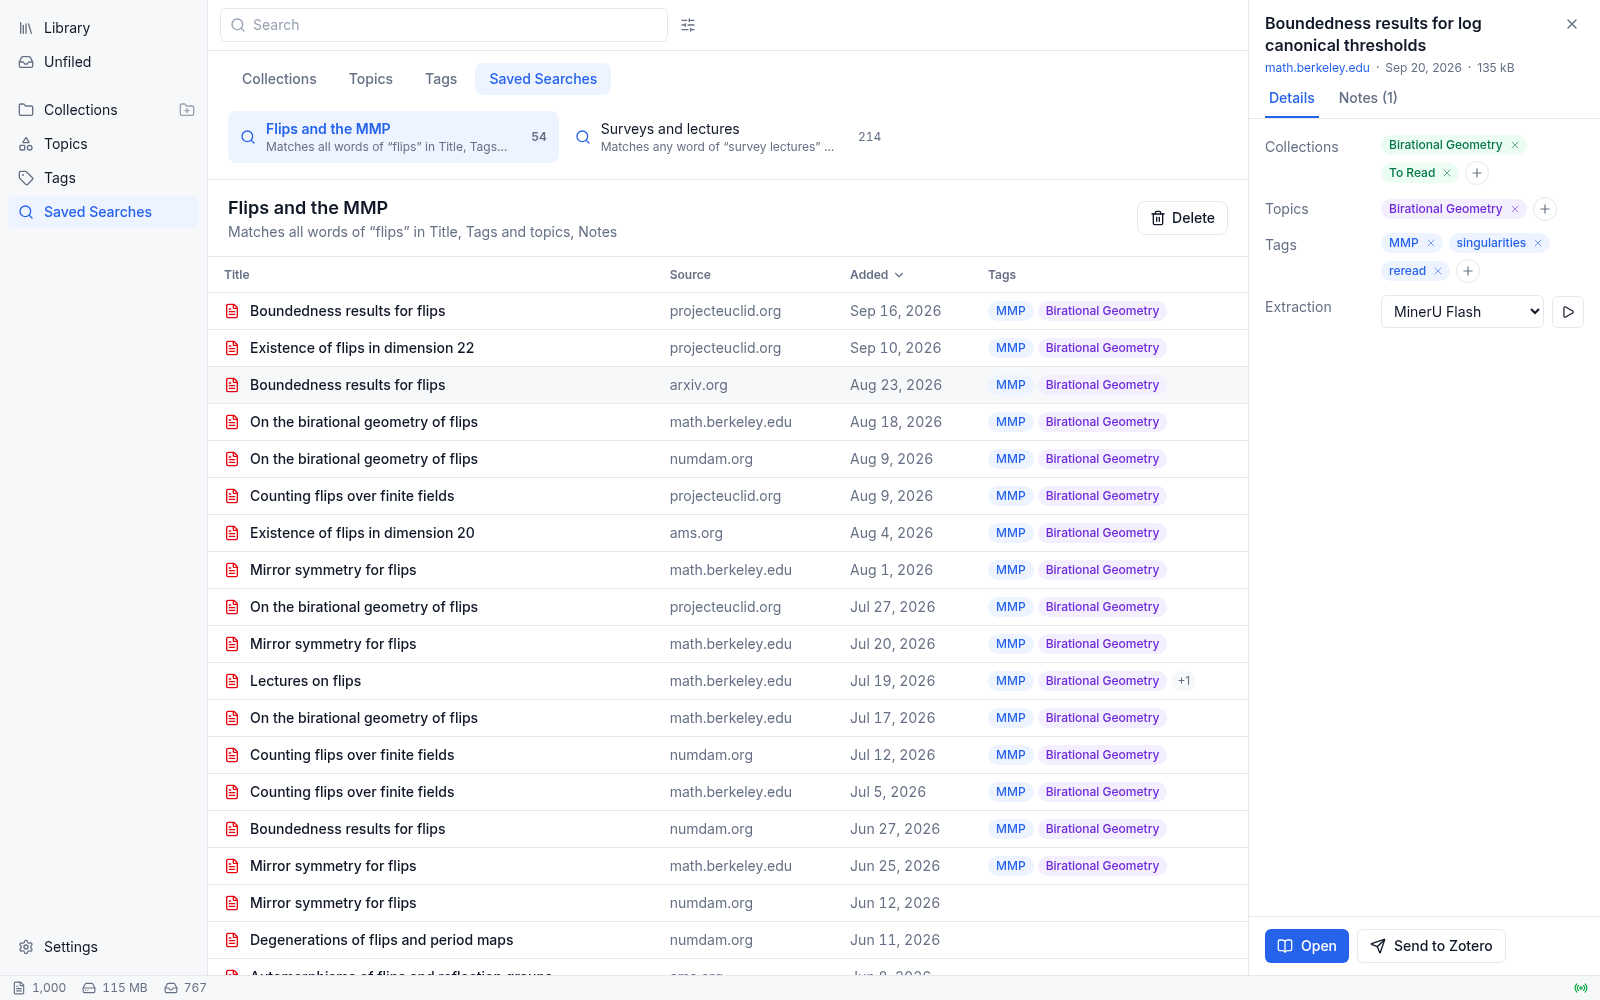
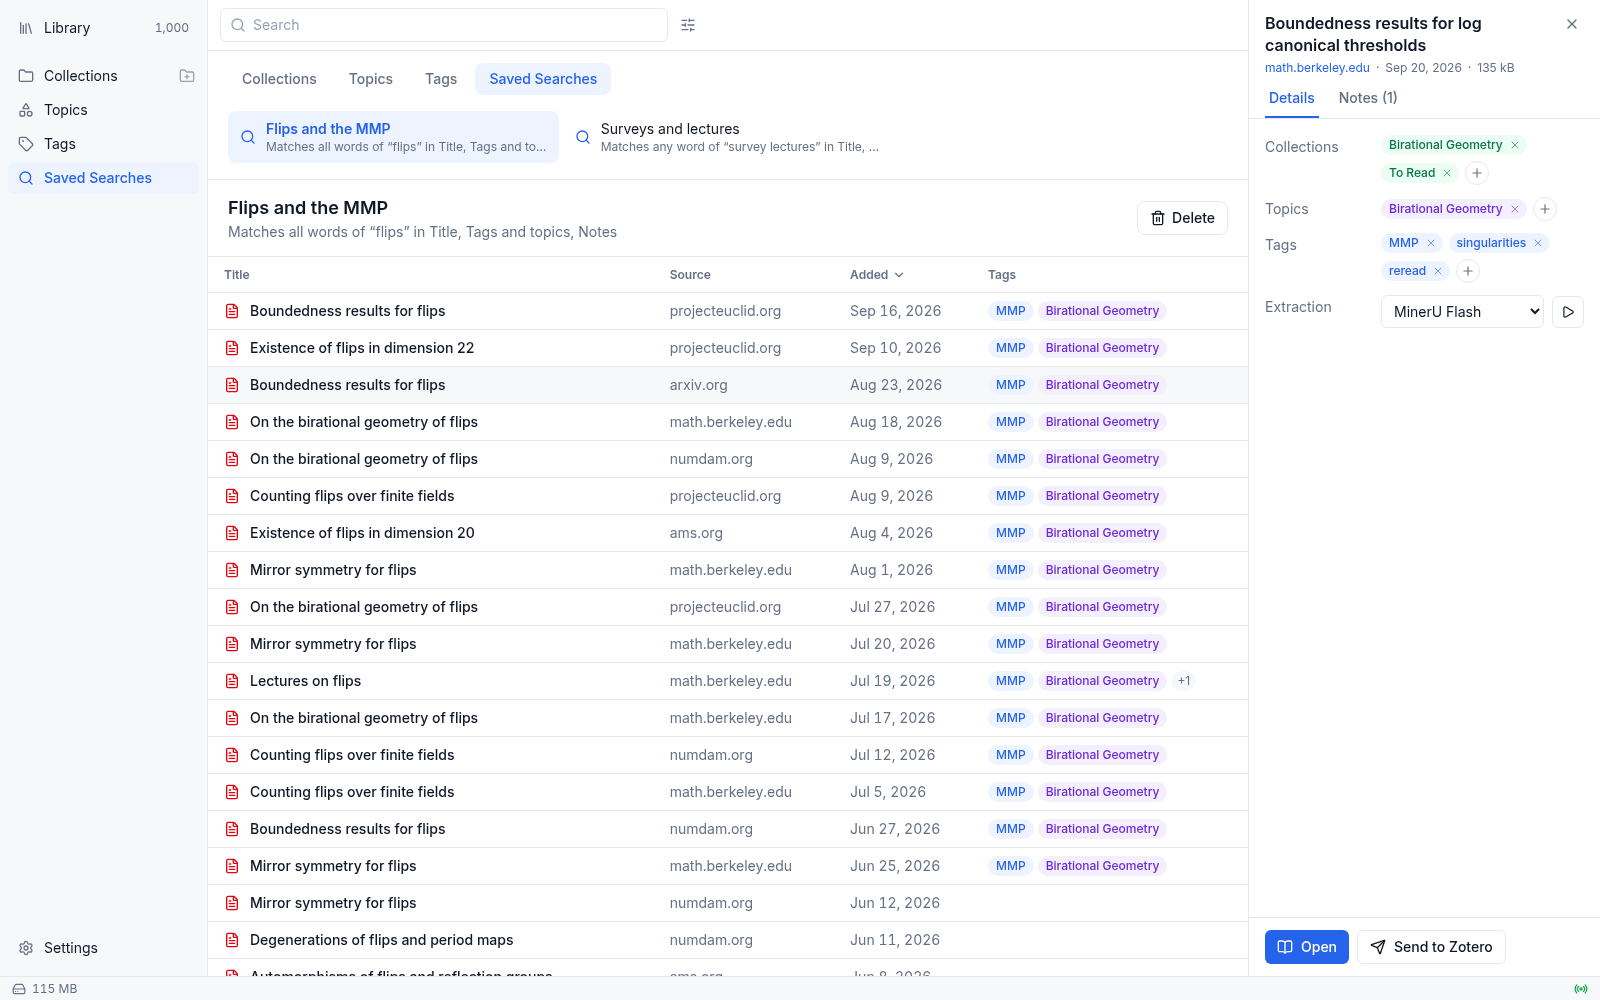
docs(m2): screenshots and timings with the Library count and Unfiled toggle
Regenerated with just library-screenshots. The seed, list and cold
request times ran while another session's large test job held most of
the workstation's memory.

diff --git a/docs/m2.md b/docs/m2.md
@@ -1,6 +1,6 @@
 # M2 evidence: library UI over the bucket store
 
-Recorded on 2026-09-23 on the development workstation (Arch Linux, WebKitGTK 2.52.6, Chromium 153 driven by Playwright).
+Recorded on 2026-09-24 on the development workstation (Arch Linux, WebKitGTK 2.52.6, Chromium 153 driven by Playwright).
 
 ## How the evidence is produced
 
@@ -30,12 +30,12 @@ Seconds, from the run that produced the screenshots below (the seeded PDFs are c
 
 | Measurement | Seconds |
 | --- | --- |
-| Seed 1,000 PDFs through the store | 6.41 |
-| `pdfbucket list` over 1,000 PDFs (one process) | 0.97 |
-| `GET /api/library`, first request (index built from the files) | 1.12 |
-| `GET /api/library`, second request (index cached, files re-stat'ed) | 0.017 |
-| Window navigation to all 1,000 rows in the table | 0.56 |
-| Typing a two-word filter until the table shows the matches | 0.14 |
+| Seed 1,000 PDFs through the store | 9.91 |
+| `pdfbucket list` over 1,000 PDFs (one process) | 2.51 |
+| `GET /api/library`, first request (index built from the files) | 2.61 |
+| `GET /api/library`, second request (index cached, files re-stat'ed) | 0.016 |
+| Window navigation to all 1,000 rows in the table | 0.51 |
+| Typing a two-word filter until the table shows the matches | 0.078 |
 
 The first request reads provenance out of every PDF; later requests re-read only PDFs whose modification time or size changed.
 Filtering is the fzf filter over the item array in the browser; there is no search index.
